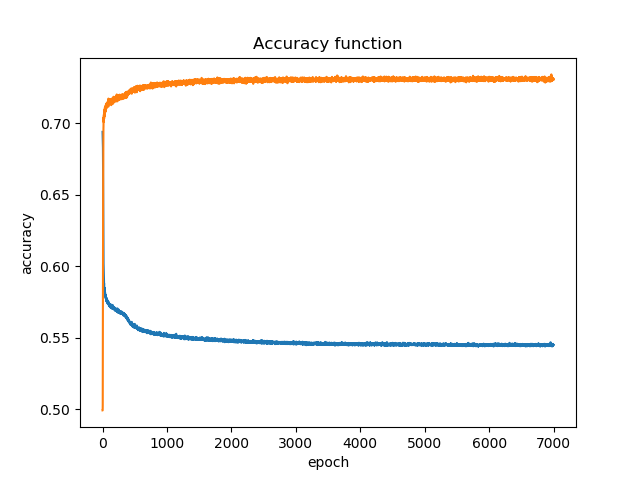
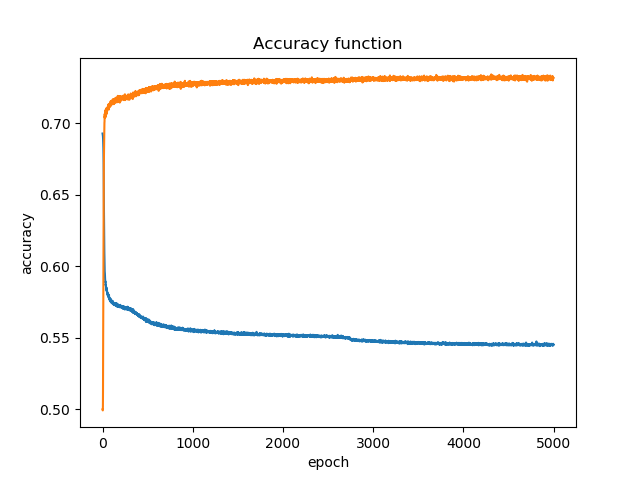
tflite model (converted from keras) added.

diff --git a/HeartDiseaseNetwork/train_network.py b/HeartDiseaseNetwork/train_network.py
@@ -18,9 +18,9 @@ model.add(Dense(1, kernel_initializer=keras.initializers.TruncatedNormal(), acti
 model.summary()
 
 model.compile(loss='binary_crossentropy', optimizer=keras.optimizers.Adam(lr=0.0001), metrics=['accuracy'])
-history = model.fit(X, Y, epochs=7000, batch_size=64, shuffle=True)
+history = model.fit(X, Y, epochs=5000, batch_size=64, shuffle=True)
 
-model.save('heart_disease_model')
+model.save('heart_disease_model.h5')
 
 plt.plot(history.history['loss'])
 plt.title('Loss function')

diff --git a/HeartDiseaseNetwork/test_network.py b/HeartDiseaseNetwork/test_network.py
@@ -8,7 +8,7 @@ dataset = loadtxt('cardio_traindata.csv', delimiter=';')
 X = dataset[50000:, 1:12]
 Y = dataset[50000:, 12]
 
-model = keras.models.load_model('heart_disease_model')
+model = keras.models.load_model('heart_disease_model.h5')
 
 _, accuracy = model.evaluate(X, Y)
 print('Accuracy: %.2f' % (accuracy*100))
